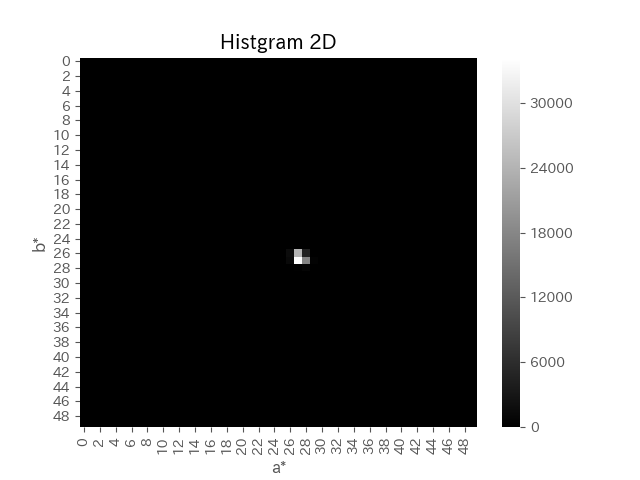
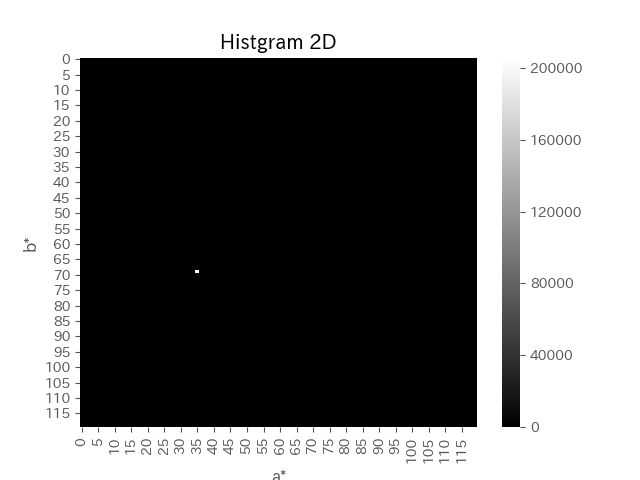
色（最大値のみ）を検出

diff --git a/bruise_detector.py b/bruise_detector.py
@@ -68,6 +68,8 @@ def find_wound(img):#HSVカラーモデルから重心を探す
 
 #画像を読み込んでLab空間に変換
 def toLab(img):
+	cols = 120 #ヒストグラムの行と列の数
+	
 	img_ori = find_wound(img)#傷周辺のみを切り抜いた画像
 	img_Lab = cv.cvtColor(img_ori, cv.COLOR_BGR2Lab)
 	#print(img_Lab)
@@ -77,8 +79,102 @@ def toLab(img):
 	img_a = np.ndarray.flatten(img_a)
 	img_b = np.ndarray.flatten(img_b)
 	#print(img_a)
-	hist, aedges, bedges= np.histogram2d(img_a, img_b, bins=50, range=[[0,255],[0,255]])
-
+	hist, aedges, bedges= np.histogram2d(img_a, img_b, bins=cols, range=[[0,255],[0,255]])
+	
+	hist_list = hist.tolist()
+	max_list = max(hist_list)
+	m = max(max_list)
+	
+	#ヒストグラムで一番多きいところの座標を習得 : hist[y][x]
+	x = hist_list.index(max(hist_list))
+	y = max_list.index(m)
+	#print(np.array(hist.tolist()).shape)
+	
+	#一度一次元配列に変換してから二次元での位置を確認する
+	
+	
+	#原点が（cols/2,cols / 2）担っているのでこれを（0,0）にシフトし、赤を0度として角度で色情報を付与
+	x -= int(cols / 2)
+	y -= int(cols / 2)
+	r = math.sqrt(x**2 + y**2)
+	cos = x / r
+	sin = y / r
+	#print(math.degrees(math.acos(cos)))
+	#print(math.degrees(math.asin(sin)))
+	deg = math.degrees(math.acos(cos))
+	
+	if(math.degrees(math.asin(sin)) < 0):#yがマイナスなら下半分
+		deg = -1 * math.fabs(deg)
+		
+		
+	#色の判定
+	color_list = []
+	if(0 <= deg and deg < 10):
+		color_list.append("10RP")
+	
+	elif(10 <= deg and deg < 29):
+		color_list.append("5R")
+	
+	elif(29 <= deg and deg < 47):
+		color_list.append("10R")
+		
+	elif(47 <= deg and deg < 65):
+		color_list.append("5YR")
+		
+	elif(65 <= deg and deg < 83):
+		color_list.append("10YR")
+		
+	elif(83 <= deg and deg < 101):
+		color_list.append("5Y")
+		
+	elif(101 <= deg and deg < 119):
+		color_list.append("10Y")
+		
+	elif(119 <= deg and deg < 137):
+		color_list.append("5GY")
+		
+	elif(137 <= deg and deg < 155):
+		color_list.append("10GY")
+		
+	elif(155 <= deg and deg < 173):
+		color_list.append("5G")
+	
+	elif(0 > deg and deg > -10):
+		color_list.append("10RP")
+	
+	elif(-10 >= deg and deg > -29):
+		color_list.append("5RP")
+	
+	elif(-29 >= deg and deg > -47):
+		color_list.append("10P")
+		
+	elif(-47 >= deg and deg > -65):
+		color_list.append("5P")
+		
+	elif(-65 >= deg and deg > -83):
+		color_list.append("10PB")
+		
+	elif(-83 >= deg and deg > -101):
+		color_list.append("5PB")
+		
+	elif(-101 >= deg and deg > -119):
+		color_list.append("10B")
+		
+	elif(-119 >= deg and deg > -137):
+		color_list.append("5B")
+		
+	elif(-137 >= deg and deg > -155):
+		color_list.append("10BG")
+		
+	elif(-155 >= deg and deg > -173):
+		color_list.append("5BG")
+	
+	else:
+		color_list.append("10G")
+		
+	
+	print(color_list)
+	
 	#img = cv.imread(hist)
 	#cv.imshow()
 
@@ -135,7 +231,7 @@ def toLab(img):
 def read_img(folder):#フォルダを指定して
 	files = glob.glob(os.path.join(path, '*.jpg'))
 	result_list = []
-	name_list = ["bruise_1", "bruise_2", "bruise_3", "health_1","health_2"]
+	name_list = ["bruise_1", "bruise_2", "bruise_3", "health_1","health_2", "test", "test2","test3"]
 	count = 0
 	for file in files:
 		print(file)
@@ -144,9 +240,10 @@ def read_img(folder):#フォルダを指定して
 		result_list.append(result)
 		count += 1
 	
-	for i in range(len(result_list)):
-		cv.imshow(name_list[i], result_list[i])
-	cv.waitKey()
+	#画像を表示
+	#for i in range(len(result_list)):
+#		cv.imshow(name_list[i], result_list[i])
+#	cv.waitKey()
 
 
 if __name__ == '__main__':
